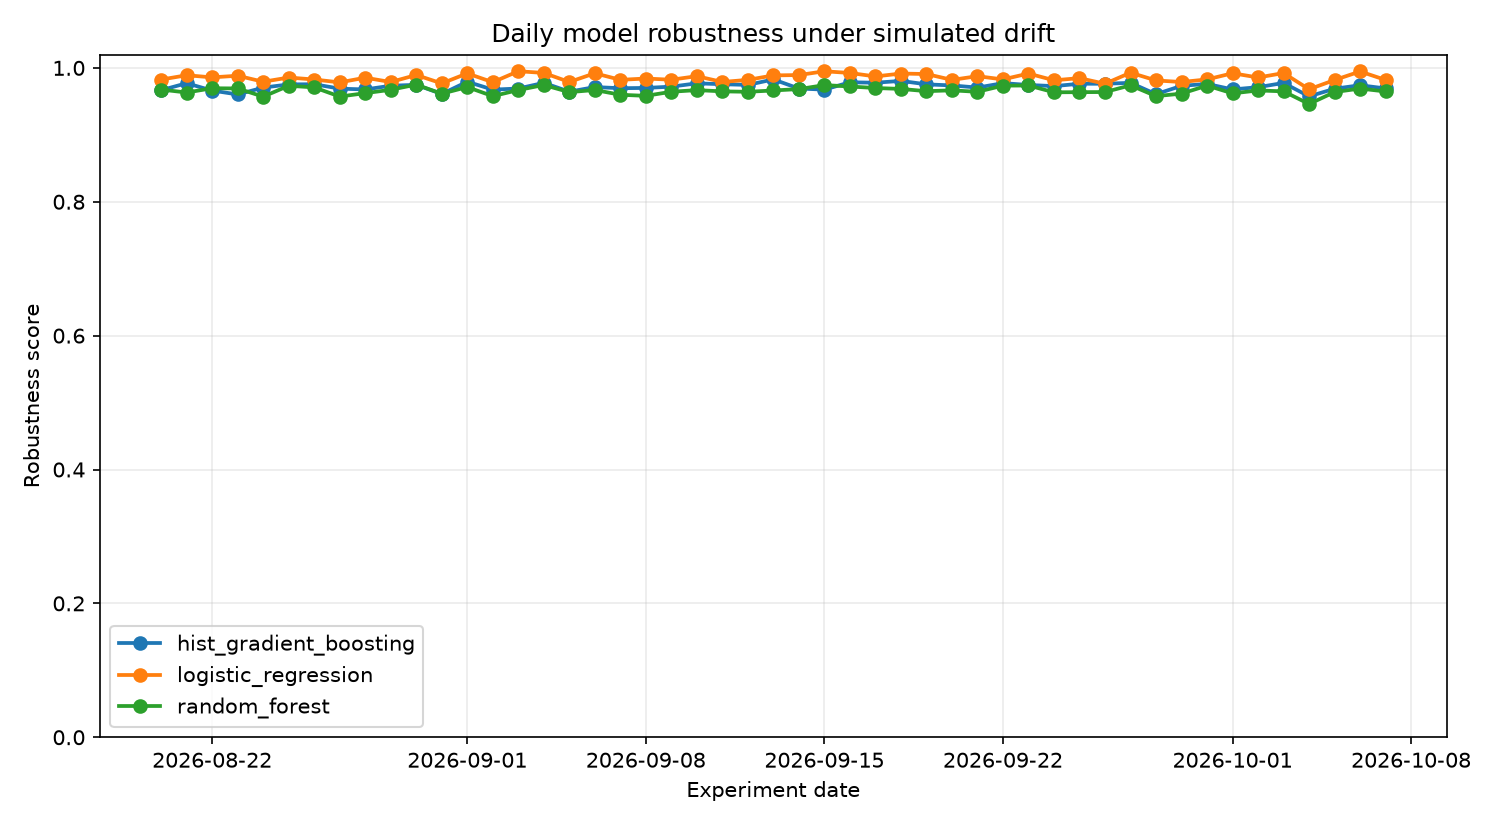
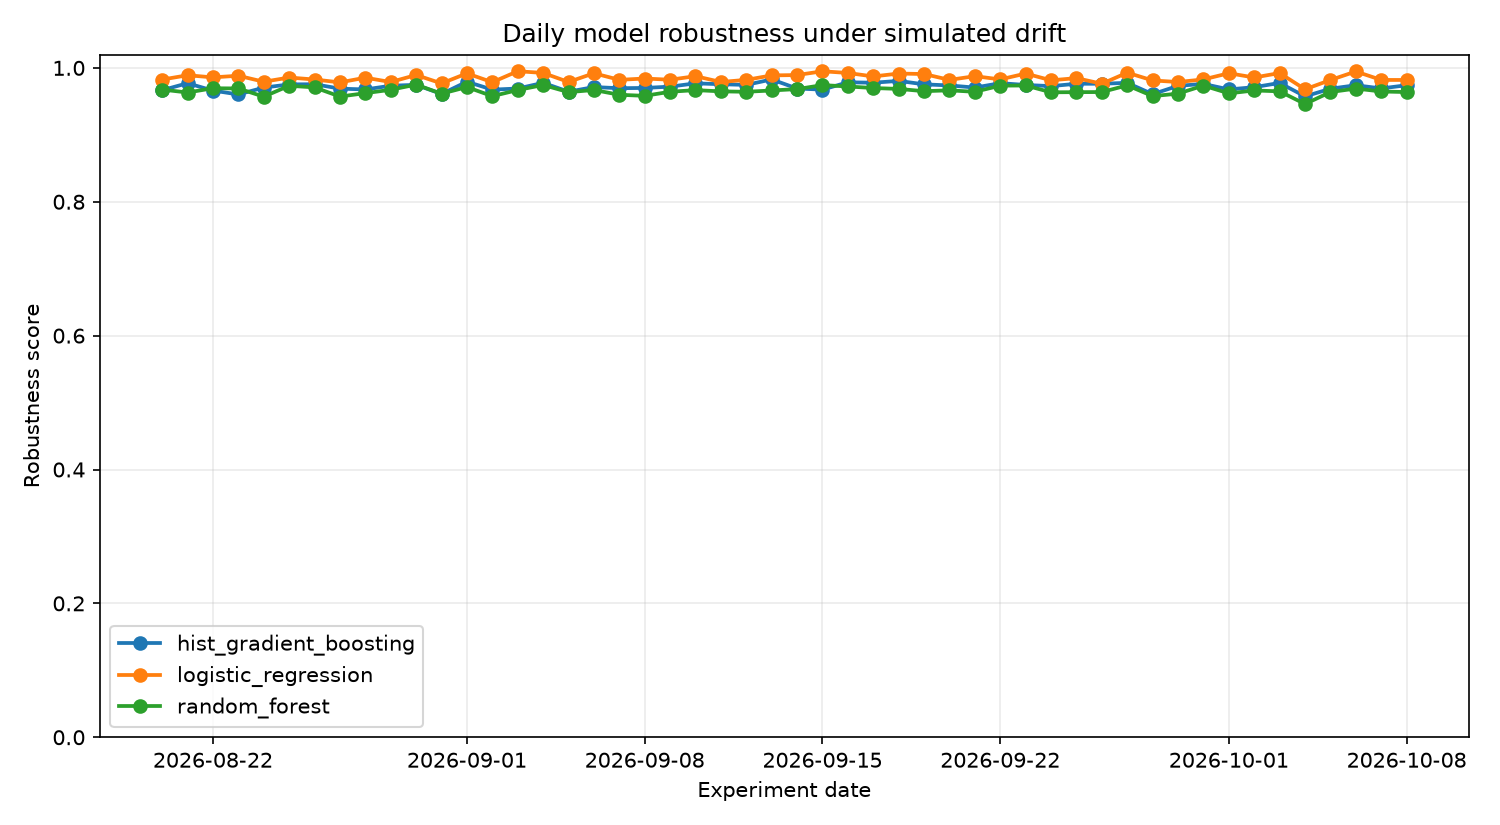
chore(observatory): daily drift benchmark 2026-10-08

diff --git a/reports/latest.md b/reports/latest.md
@@ -1,37 +1,37 @@
 # Latest DriftWatch Report
 
-**Experiment date:** 2026-10-07
+**Experiment date:** 2026-10-08
 
 ## Drift scenario
 
-- Drift strength: `0.232`
-- Scale factor: `1.023`
-- Noise ratio: `0.053`
-- Mask ratio: `0.013`
-- Affected features: mean texture, mean concave points, radius error, worst radius, worst texture, worst fractal dimension
+- Drift strength: `0.191`
+- Scale factor: `1.019`
+- Noise ratio: `0.048`
+- Mask ratio: `0.012`
+- Affected features: mean area, texture error, fractal dimension error, worst texture, worst compactness, worst symmetry
 
 ## Model ranking
 
 | Rank | Model | Robustness | ROC-AUC | F1 | Balanced Acc. | Log Loss | Brier |
 |---:|---|---:|---:|---:|---:|---:|---:|
-| 1 | `logistic_regression` | 0.9820 | 0.9988 | 0.9714 | 0.9688 | 0.0930 | 0.0272 |
-| 2 | `hist_gradient_boosting` | 0.9693 | 0.9921 | 0.9577 | 0.9454 | 0.1152 | 0.0396 |
-| 3 | `random_forest` | 0.9647 | 0.9926 | 0.9479 | 0.9360 | 0.1347 | 0.0386 |
+| 1 | `logistic_regression` | 0.9819 | 0.9980 | 0.9714 | 0.9688 | 0.0842 | 0.0244 |
+| 2 | `hist_gradient_boosting` | 0.9741 | 0.9924 | 0.9677 | 0.9516 | 0.1141 | 0.0352 |
+| 3 | `random_forest` | 0.9639 | 0.9918 | 0.9484 | 0.9329 | 0.1316 | 0.0393 |
 
 ## Highest feature drift (PSI)
 
 | Feature | PSI |
 |---|---:|
-| mean concave points | 0.2667 |
-| radius error | 0.2397 |
-| texture error | 0.1967 |
-| worst fractal dimension | 0.1424 |
-| mean concavity | 0.1209 |
-| fractal dimension error | 0.1130 |
-| worst texture | 0.1082 |
-| mean texture | 0.1055 |
+| fractal dimension error | 0.3863 |
+| texture error | 0.2068 |
+| worst concavity | 0.1689 |
+| perimeter error | 0.1637 |
+| mean texture | 0.1271 |
+| worst compactness | 0.1268 |
+| worst smoothness | 0.1239 |
+| mean concavity | 0.1135 |
 
-**Mean PSI:** `0.0947`  
-**Max PSI:** `0.2667`
+**Mean PSI:** `0.1028`  
+**Max PSI:** `0.3863`
 
 _Generated automatically by the DriftWatch daily observatory pipeline._
